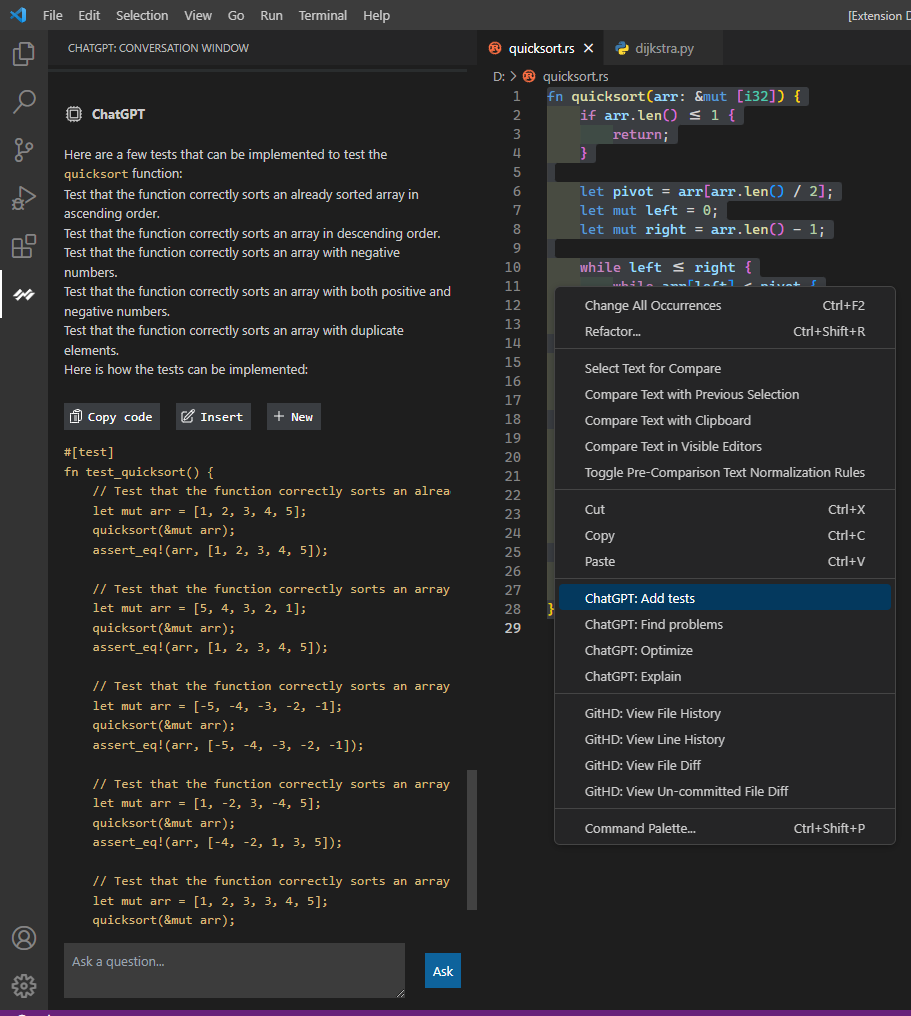
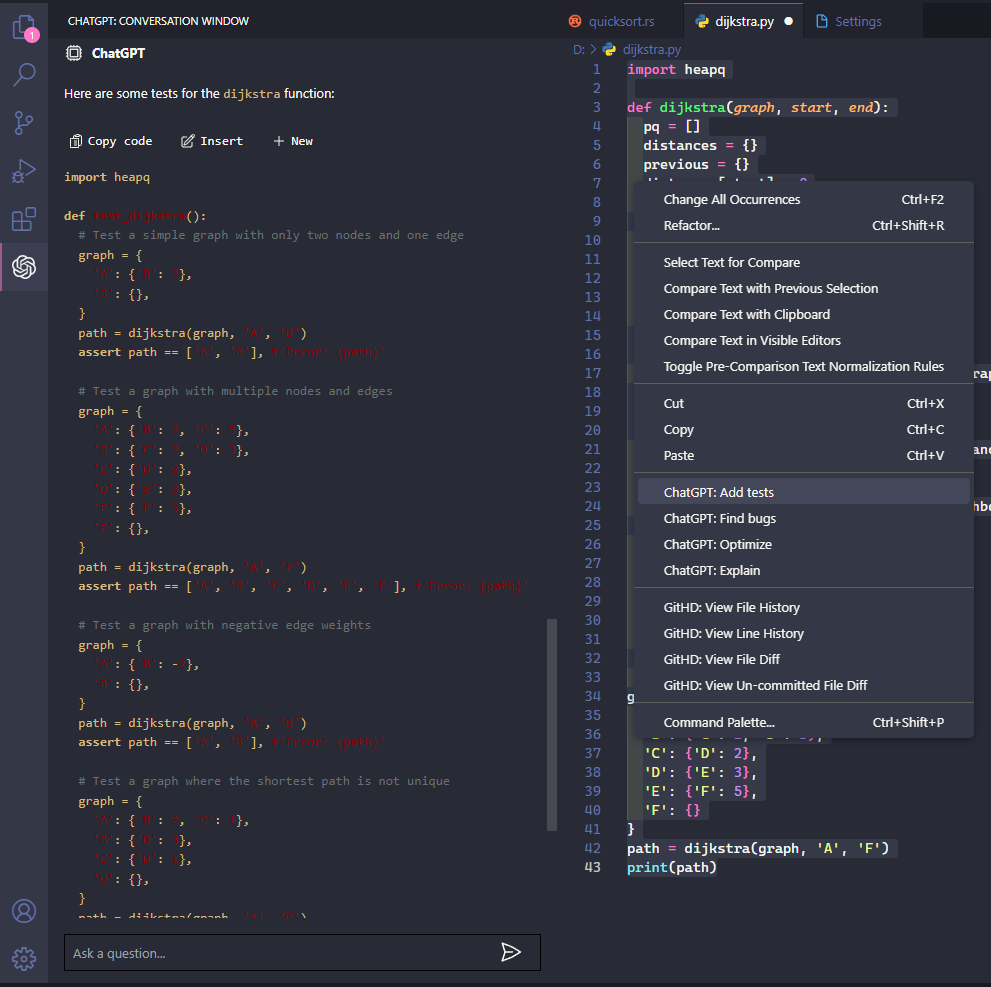
Automatically highlight code given by ChatGPT. Addressing #4

diff --git a/media/main.js b/media/main.js
@@ -5,6 +5,20 @@
 (function () {
     const vscode = acquireVsCodeApi();
 
+    marked.setOptions({
+        renderer: new marked.Renderer(),
+        highlight: function (code, _lang) {
+            return hljs.highlightAuto(code).value;
+        },
+        langPrefix: 'hljs language-',
+        pedantic: false,
+        gfm: true,
+        breaks: false,
+        sanitize: false,
+        smartypants: false,
+        xhtml: false
+    });
+
     const copySvg = `<svg xmlns="http://www.w3.org/2000/svg" fill="none" viewBox="0 0 24 24" stroke-width="1.5" stroke="currentColor" class="w-4 h-4 mr-1"><path stroke-linecap="round" stroke-linejoin="round" d="M9 12h3.75M9 15h3.75M9 18h3.75m3 .75H18a2.25 2.25 0 002.25-2.25V6.108c0-1.135-.845-2.098-1.976-2.192a48.424 48.424 0 00-1.123-.08m-5.801 0c-.065.21-.1.433-.1.664 0 .414.336.75.75.75h4.5a.75.75 0 00.75-.75 2.25 2.25 0 00-.1-.664m-5.8 0A2.251 2.251 0 0113.5 2.25H15c1.012 0 1.867.668 2.15 1.586m-5.8 0c-.376.023-.75.05-1.124.08C9.095 4.01 8.25 4.973 8.25 6.108V8.25m0 0H4.875c-.621 0-1.125.504-1.125 1.125v11.25c0 .621.504 1.125 1.125 1.125h9.75c.621 0 1.125-.504 1.125-1.125V9.375c0-.621-.504-1.125-1.125-1.125H8.25zM6.75 12h.008v.008H6.75V12zm0 3h.008v.008H6.75V15zm0 3h.008v.008H6.75V18z" /></svg>`;
 
     const checkSvg = `<svg xmlns="http://www.w3.org/2000/svg" fill="none" viewBox="0 0 24 24" stroke-width="1.5" stroke="currentColor" class="w-4 h-4 mr-1"><path stroke-linecap="round" stroke-linejoin="round" d="M4.5 12.75l6 6 9-13.5" /></svg>`;

diff --git a/src/chatgpt-view-provider.ts b/src/chatgpt-view-provider.ts
@@ -150,7 +150,8 @@ export default class ChatGptViewProvider implements vscode.WebviewViewProvider {
 				<meta name="viewport" content="width=device-width, initial-scale=1.0">
 
 				<link href="${stylesMainUri}" rel="stylesheet">
-
+				<link rel="stylesheet" href="https://cdn.jsdelivr.net/gh/highlightjs/cdn-release@11.7.0/build/styles/default.min.css">
+				<script src="https://cdn.jsdelivr.net/gh/highlightjs/cdn-release@11.7.0/build/highlight.min.js"></script>
 				<script src="https://cdn.jsdelivr.net/npm/marked/marked.min.js"></script>
 				<script src="https://cdn.tailwindcss.com"></script>
 			</head>
